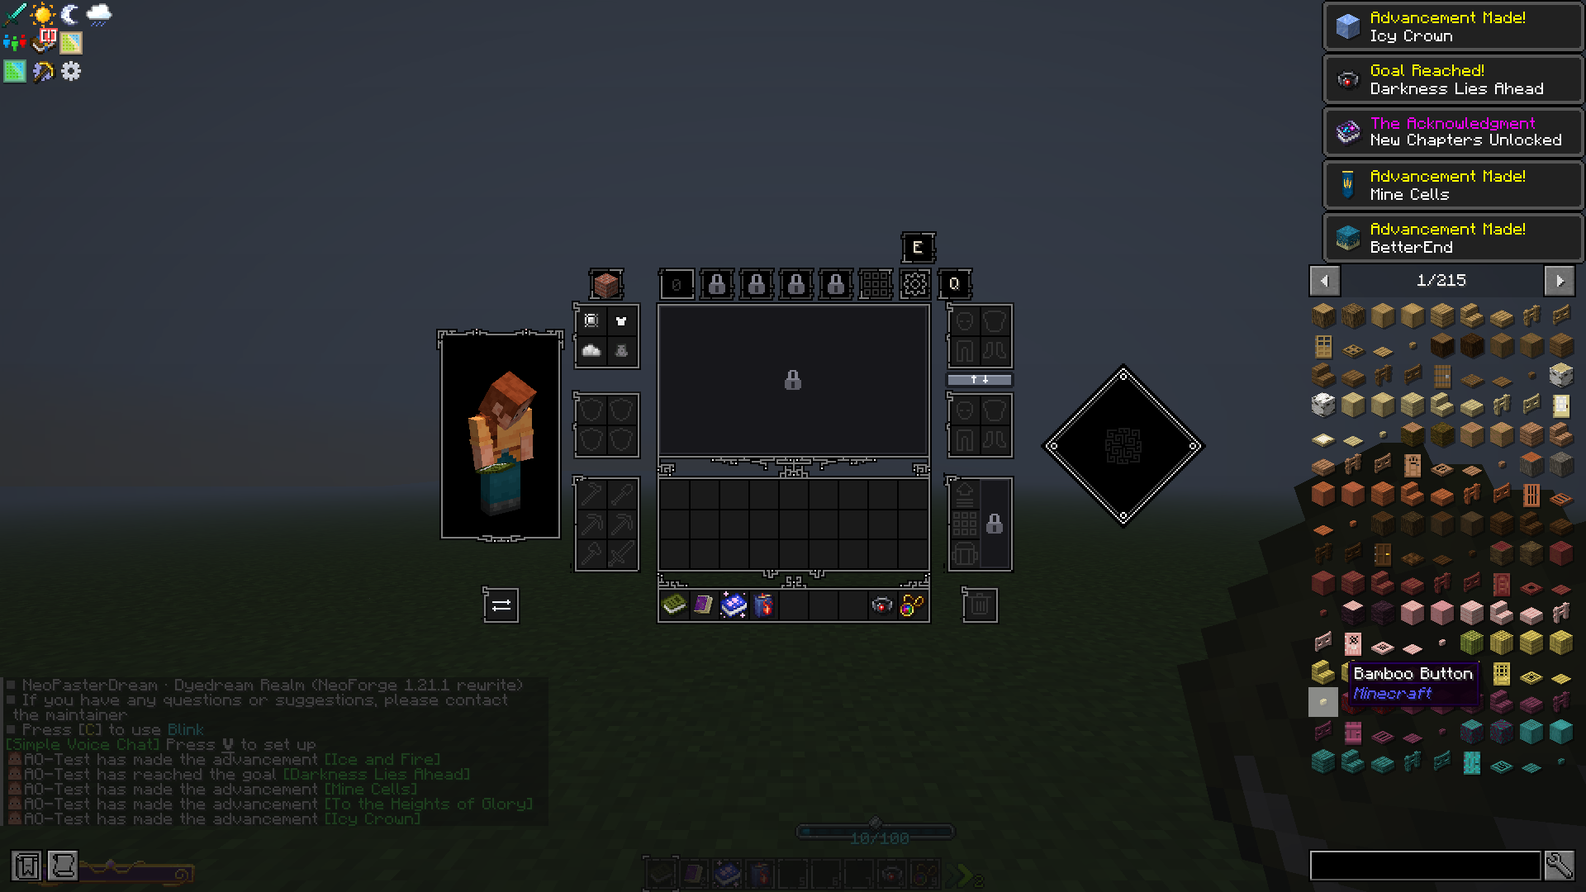
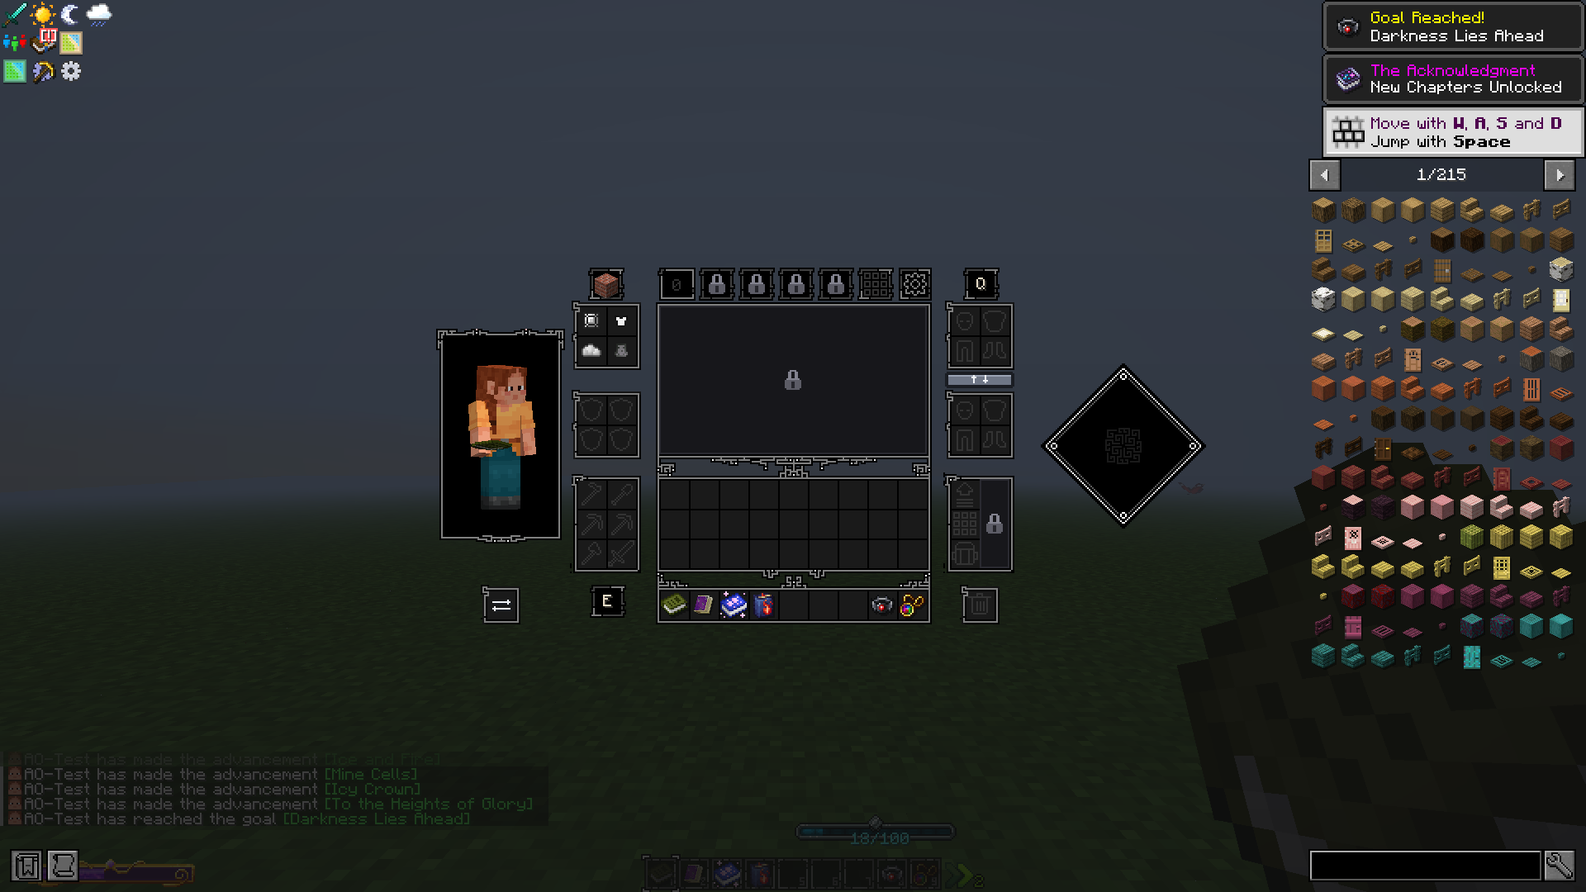
Place E below tools and Q above armor; verify native mouse clicks

diff --git a/tools/ring-probe/src/main/java/dev/ambientodyssey/logprobe/FullPackLogProbe.java b/tools/ring-probe/src/main/java/dev/ambientodyssey/logprobe/FullPackLogProbe.java
@@ -31,7 +31,7 @@ public final class FullPackLogProbe {
     opening=true; mc.options.onboardAccessibility=false;mc.options.renderDistance().set(2);mc.options.simulationDistance().set(2);
     LOG.info("AO_FULL_PACK_TITLE_PASS: creating disposable flat world for full-registry diagnosis");
     var settings=new LevelSettings("AO full-pack log probe",GameType.CREATIVE,false,Difficulty.PEACEFUL,true,new GameRules(),WorldDataConfiguration.DEFAULT);
-    mc.createWorldOpenFlows().createFreshLevel("ao-full-pack-log-probe",settings,new WorldOptions(48127,false,false),a->a.registryOrThrow(Registries.WORLD_PRESET).getHolderOrThrow(WorldPresets.FLAT).value().createWorldDimensions(),new TitleScreen());
+    mc.createWorldOpenFlows().createFreshLevel("ao-ring-position-"+System.currentTimeMillis(),settings,new WorldOptions(48127,false,false),a->a.registryOrThrow(Registries.WORLD_PRESET).getHolderOrThrow(WorldPresets.FLAT).value().createWorldDimensions(),new TitleScreen());
     return;
    }
    if(mc.player==null||mc.level==null||mc.getSingleplayerServer()==null||++ticks<100)return;
@@ -45,13 +45,22 @@ public final class FullPackLogProbe {
    }
    if(stage>=1&&stage<=3){
     check(tab().visible&&tab().active,"equipped ring must show tab");
-    check(tab().getY()+tab().getHeight()<=inventory.getGuiTop(),"tab must sit above native panel");
+    check(tab().getY()==inventory.getGuiTop()+192,"tab must sit below left tool panel");
+    check(tab().getX()==inventory.getGuiLeft()+92 || tab().getX()==inventory.getGuiLeft()+63,"tab must stay in requested left area");
+    for(var slot:inventory.getMenu().slots)if(slot.isActive())
+      check(!(tab().getX()<inventory.getGuiLeft()+slot.x+16&&tab().getX()+24>inventory.getGuiLeft()+slot.x&&tab().getY()<inventory.getGuiTop()+slot.y+16&&tab().getY()+20>inventory.getGuiTop()+slot.y),"active slot overlap");
+    var q=(net.minecraft.client.gui.components.AbstractButton)inventory.children().stream().filter(v->v.getClass().getName().endsWith("QuestlogBetterInventoryBridge$QuestlogTab")).findFirst().orElseThrow();
+    check(q.getX()==inventory.getGuiLeft()+318&&q.getY()==inventory.getGuiTop(),"Q must be above right armor");
+    click(mc,q);
+    check(mc.screen!=null&&mc.screen.getClass().getName().endsWith("QuestlogScreen"),"Q did not open Questlog");
+    mc.screen.keyPressed(256,0,0);check(mc.screen==inventory,"Q did not return to Better Inventory");
+    LOG.info("AO_QUESTLOG_POSITION_CLICK_PASS: scale={}, x={}, y={}",stage+1,q.getX(),q.getY());
     for(var child:inventory.children())if(child instanceof net.minecraft.client.gui.components.AbstractWidget w&&w!=tab()&&w.visible)
       check(!(tab().getX()<w.getX()+w.getWidth()&&tab().getX()+24>w.getX()&&tab().getY()<w.getY()+w.getHeight()&&tab().getY()+20>w.getY()),"widget overlap");
     try(var shot=net.minecraft.client.Screenshot.takeScreenshot(mc.getMainRenderTarget())){shot.writeToFile(mc.gameDirectory.toPath().resolve("ring-scale-"+(stage+1)+".png"));}
     LOG.info("AO_RING_LAYOUT_PASS: scale={}, x={}, y={}",stage+1,tab().getX(),tab().getY());
     if(stage<3){stage++;inventory=openInventory(mc,stage+1);ticks=0;return;}
-    check(inventory.mouseClicked(tab().getX()+12,tab().getY()+10,0),"native click not consumed");
+    click(mc,tab());
     stage=4;ticks=0;return;
    }
    if(stage==4){
@@ -67,6 +76,15 @@ public final class FullPackLogProbe {
    LOG.info("AO_FULL_PACK_WORLD_JOIN_PASS: full roster loaded; ring native layout/equip/click/unequip checks passed");
    mc.stop();
   }catch(Exception|LinkageError e){finished=true;LOG.error("AO_FULL_PACK_PROBE_FAIL",e);mc.stop();}
+ }
+ private static void click(Minecraft mc,net.minecraft.client.gui.components.AbstractButton button)throws Exception {
+    var move=net.minecraft.client.MouseHandler.class.getDeclaredMethod("onMove",long.class,double.class,double.class);
+    move.setAccessible(true);move.invoke(mc.mouseHandler,mc.getWindow().getWindow(),
+      (button.getX()+12d)*mc.getWindow().getScreenWidth()/mc.getWindow().getGuiScaledWidth(),
+      (button.getY()+10d)*mc.getWindow().getScreenHeight()/mc.getWindow().getGuiScaledHeight());
+    var press=net.minecraft.client.MouseHandler.class.getDeclaredMethod("onPress",long.class,int.class,int.class,int.class);
+    press.setAccessible(true);press.invoke(mc.mouseHandler,mc.getWindow().getWindow(),0,1,0);
+    press.invoke(mc.mouseHandler,mc.getWindow().getWindow(),0,0,0);
  }
  private static void check(boolean value,String message){if(!value)throw new IllegalStateException(message);}
  private net.minecraft.client.gui.components.AbstractButton tab(){return (net.minecraft.client.gui.components.AbstractButton)inventory.children().stream().filter(v->v.getClass().getName().endsWith("EnigmaticInventoryBridge$EnderTab")).findFirst().orElseThrow();}

diff --git a/tools/package_v0483_ring_test.py b/tools/package_v0483_ring_test.py
@@ -1,11 +1,11 @@
-"""Exact delta from the verified r8 import: optional ring bridge and approved mod removal."""
+"""Exact delta from the verified r8 import: ring bridge, requested Q placement and approved mod removal."""
 import argparse,hashlib,json,io,tomllib
 from pathlib import Path
 from zipfile import ZipFile
 from package_v048_ui_fix import archive
[1 lines of base64/hex data omitted]
 REMOVED={1023913,1657433}
-def build(base,jar,output):
+def build(base,jar,questlog_jar,output):
  assert hashlib.sha256(base.read_bytes()).hexdigest()==BASE_SHA
  with ZipFile(base) as z:
   assert z.testzip() is None
@@ -28,17 +28,26 @@ def build(base,jar,output):
   assert tomllib.loads(z.read('META-INF/neoforge.mods.toml').decode())['mods'][0]['modId']=='aoenigmaticbridge'
   assert not any('QA' in n or 'Probe' in n for n in z.namelist())
  full['overrides/mods/'+jar.name]=blob
- full['overrides/AO_TEST_NOTES/RING_INVENTORY_CHECKLIST.txt']=b"Use a NEW profile and throwaway world.\nWithout the equipped Seven Curses ring: no E tab.\nEquip it in Curios: E tab above Settings opens the original Ender Chest.\nCheck normal/hover appearance, scales 2/3/4, Q/Settings/Curios/backpacks.\nCheck carried items, save/reload, disabled ring-access config and multiplayer.\nSubtle Effects and its End Remastered patch removed; Fzzy Config retained.\nRetest the previously crashing mob interaction.\n"
+ old_q='overrides/mods/ao-questlog-betterinventory-0.1.5.jar'
+ assert old_q in full and questlog_jar.name=='ao-questlog-betterinventory-0.1.6.jar'
+ del full[old_q]
+ q_blob=questlog_jar.read_bytes()
+ with ZipFile(io.BytesIO(q_blob)) as z:
+  assert z.testzip() is None and not any('PlacementQA' in n for n in z.namelist())
+  q_meta=tomllib.loads(z.read('META-INF/neoforge.mods.toml').decode())['mods'][0]
+  assert q_meta['modId']=='aoquestlogbridge' and q_meta['version']=='0.1.6'
+ full['overrides/mods/'+questlog_jar.name]=q_blob
+ full['overrides/AO_TEST_NOTES/RING_INVENTORY_CHECKLIST.txt']=b"Use a NEW profile and throwaway world.\nWithout the equipped Seven Curses ring: no E tab.\nEquip it in Curios: E tab below the left tool slots opens the original Ender Chest.\nCheck normal/hover appearance, scales 2/3/4, Q above right armor opens Questlog and returns. Settings/Curios/backpacks.\nCheck carried items, save/reload, disabled ring-access config and multiplayer.\nSubtle Effects and its End Remastered patch removed; Fzzy Config retained.\nRetest the previously crashing mob interaction.\n"
  for n,b in original.items():
-  if n!='manifest.json' and n not in removed_paths: assert full[n]==b,n
+  if n not in {'manifest.json',old_q} and n not in removed_paths: assert full[n]==b,n
  after={f['projectID']:f['fileID'] for f in manifest['files']}
  assert after=={k:v for k,v in before.items() if k not in REMOVED}
  assert not any('subtle' in n.lower() and n.startswith('overrides/mods/') for n in full)
  sha=archive(output,full)
- report={'base_sha256':BASE_SHA,'output_sha256':sha,'bridge_sha256':hashlib.sha256(blob).hexdigest(),'removed_projects':sorted(REMOVED),'curseforge_pins':329,'remaining_pins_and_original_payload_unchanged':True,'removed_config_paths':removed_paths}
+ report={'base_sha256':BASE_SHA,'output_sha256':sha,'bridge_sha256':hashlib.sha256(blob).hexdigest(),'questlog_bridge_sha256':hashlib.sha256(q_blob).hexdigest(),'removed_projects':sorted(REMOVED),'curseforge_pins':329,'remaining_pins_and_unrelated_payload_unchanged':True,'removed_config_paths':removed_paths}
  output.with_suffix('.inputs.json').write_text(json.dumps(report,indent=2)+'\n',encoding='utf-8')
  print(json.dumps(report,indent=2))
 if __name__=='__main__':
  p=argparse.ArgumentParser(description=__doc__)
- for n in ['base','jar','output']: p.add_argument('--'+n,type=Path,required=True)
- a=p.parse_args();build(a.base,a.jar,a.output)
+ for n in ['base','jar','questlog-jar','output']: p.add_argument('--'+n,type=Path,required=True)
+ a=p.parse_args();build(a.base,a.jar,a.questlog_jar,a.output)

diff --git a/addons/ao-enigmatic-betterinventory/src/main/java/dev/ambientodyssey/enigmaticbridge/EnigmaticInventoryBridge.java b/addons/ao-enigmatic-betterinventory/src/main/java/dev/ambientodyssey/enigmaticbridge/EnigmaticInventoryBridge.java
@@ -36,6 +36,7 @@ public final class EnigmaticInventoryBridge {
     public EnigmaticInventoryBridge(IEventBus bus) {
         NeoForge.EVENT_BUS.addListener(EnigmaticInventoryBridge::init);
         NeoForge.EVENT_BUS.addListener(EnigmaticInventoryBridge::beforeRender);
+        NeoForge.EVENT_BUS.addListener(EnigmaticInventoryBridge::beforeClick);
     }
     private static boolean target(Screen screen) {
         return screen.getClass().getName().equals("dev.fallingcloud.betterinventory.client.screen.BetterInventoryScreen")
@@ -75,6 +76,17 @@ public final class EnigmaticInventoryBridge {
         if (!target(event.getScreen())) return;
         for (var child:event.getScreen().children()) if(child instanceof EnderTab tab) tab.refresh();
     }
+    private static void beforeClick(ScreenEvent.MouseButtonPressed.Pre event) {
+        if (!target(event.getScreen()) || event.getButton()!=0) return;
+        for (var child:event.getScreen().children()) if (child instanceof EnderTab tab) {
+            tab.refresh();
+            // BI's container click handling can consume this lower slot region before widgets.
+            // Only route our own visible hitbox; all native controls retain their input path.
+            if (tab.mouseClicked(event.getMouseX(),event.getMouseY(),event.getButton())) {
+                event.setCanceled(true); return;
+            }
+        }
+    }
     public static final class EnderTab extends AbstractButton {
         private final AbstractContainerScreen<?> parent;
         private final Button original;
@@ -86,16 +98,19 @@ public final class EnigmaticInventoryBridge {
         private void refresh() {
             active=visible=allowed();
             if (!visible) return;
-            // Above the settings gear, outside the native panel and Q tab at left+302/top.
+            // User-selected space below the left tool panel; preserve any active toolbox slot.
             int left=parent.getGuiLeft(), top=parent.getGuiTop();
-            int[][] candidates={{left+280,top-22},{left+254,top-22},
-                {left+280,top+parent.getYSize()+2},{left-26,top}};
+            int[][] candidates={{left+92,top+192},{left+63,top+192},
+                {left+280,top-22},{left-26,top}};
             for (int[] p:candidates) {
                 if(p[0]<2 || p[1]<2 || p[0]+24>parent.width-2 || p[1]+20>parent.height-2) continue;
                 boolean overlaps=false;
                 for (var child:parent.children()) if(child instanceof AbstractWidget w && w!=this && w.visible
                     && p[0]<w.getX()+w.getWidth() && p[0]+24>w.getX()
                     && p[1]<w.getY()+w.getHeight() && p[1]+20>w.getY()) { overlaps=true; break; }
+                for (var slot:parent.getMenu().slots) if (slot.isActive()
+                    && p[0]<left+slot.x+16 && p[0]+24>left+slot.x
+                    && p[1]<top+slot.y+16 && p[1]+20>top+slot.y) { overlaps=true; break; }
                 if (!overlaps) { setPosition(p[0],p[1]); return; }
             }
             active=visible=false; // Never cover a native control when no safe position exists.

diff --git a/addons/ao-questlog-betterinventory/src/main/java/dev/ambientodyssey/questlogbridge/QuestlogBetterInventoryBridge.java b/addons/ao-questlog-betterinventory/src/main/java/dev/ambientodyssey/questlogbridge/QuestlogBetterInventoryBridge.java
@@ -54,7 +54,7 @@ public final class QuestlogBetterInventoryBridge {
     // Verified against the installed Better Inventory 1.3.2 JAR:
     // backpack tabs = left+134,158,182,206,230; crafting=254;
     // settings gear = left+280, width 20 (not the tab's width 24).
-    // User-preferred Q tab: two pixels RIGHT of Better Inventory's gear.
+    // User-preferred Q tab: centered ABOVE the right armor panel (RIGHT_A_X=308, width=44).
     // Fall back to the previously verified above-gear slot on narrow screens.
     private static final int SETTINGS_X = 280;
     private static final int SETTINGS_WIDTH = 20;
@@ -82,6 +82,10 @@ public final class QuestlogBetterInventoryBridge {
         }
         int left = inventory.getGuiLeft();
         int top = inventory.getGuiTop();
+        int aboveArmor = left + 318;
+        if (aboveArmor >= 2 && aboveArmor + TAB_WIDTH <= screen.width - 2 && top >= 2) {
+            return new Anchor(aboveArmor, top);
+        }
         int rightOfSettings = left + SETTINGS_X + SETTINGS_WIDTH + TAB_MARGIN;
         // Align with native settings on the same row without covering it.
         if (rightOfSettings + TAB_WIDTH <= screen.width - 2) {
@@ -163,7 +167,7 @@ public final class QuestlogBetterInventoryBridge {
 
         event.addListener(new QuestlogTab(screen));
         lastBadgeTick = Long.MIN_VALUE;
-        LOG.info("AO Questlog bridge 0.1.5: settings-right primary, safe fallbacks at {},{} (gui left={}, top={})",
+        LOG.info("AO Questlog bridge 0.1.6: armor-top primary, safe fallbacks at {},{} (gui left={}, top={})",
                 buttonX(screen), buttonY(screen),
                 ((AbstractContainerScreen<?>) screen).getGuiLeft(),
                 ((AbstractContainerScreen<?>) screen).getGuiTop());

diff --git a/addons/ao-questlog-betterinventory/src/main/java/dev/ambientodyssey/questlogbridge/QuestlogPlacementQA.java b/addons/ao-questlog-betterinventory/src/main/java/dev/ambientodyssey/questlogbridge/QuestlogPlacementQA.java
@@ -83,9 +83,9 @@ public final class QuestlogPlacementQA {
             var layout = Class.forName("dev.fallingcloud.betterinventory.BetterInventoryLayout");
             int settingsX = layout.getField("SETTINGS_X").getInt(null);
             int settingsWidth = layout.getField("SETTINGS_SIZE").getInt(null);
-            int expectedX = inventory.getGuiLeft() + settingsX + settingsWidth + 2;
+            int expectedX = inventory.getGuiLeft() + layout.getField("RIGHT_A_X").getInt(null) + 10;
             if (q.getX() != expectedX || q.getY() != inventory.getGuiTop())
-                throw new IllegalStateException("Q is not immediately right of the actual gear: " + q.getX() + "," + q.getY());
+                throw new IllegalStateException("Q is not centered above the right armor panel: " + q.getX() + "," + q.getY());
             if (q.getX() + q.getWidth() > inventory.width || q.getY() < 0)
                 throw new IllegalStateException("Q is off-screen");
             var path = mc.gameDirectory.toPath().resolve("questlog-scale-" + scale + ".png");

diff --git a/docs/testing/V0483_RING_INVENTORY_2026-10-12.md b/docs/testing/V0483_RING_INVENTORY_2026-10-12.md
@@ -4,7 +4,7 @@ Base: latest active GitHub branch `content/v0482-r8-full-pack-20261012`, commit 
 
 ## Changes
 
-Optional client-only `ao-enigmatic-betterinventory` 0.1.0 adds a native-style 24x20 E tab above Settings. Uses Better Inventory 1.3.2's installed tab atlas, selected row on hover/focus, tooltip and narration; leaves Questlog, Curios, backpacks and native inventory buttons intact. Placement checks bounds and visible widgets, then safe fallback positions. No source mod JAR is modified.
+Optional client-only `ao-enigmatic-betterinventory` 0.1.0 adds a native-style 24x20 E tab below the left tool slots. Uses Better Inventory 1.3.2's installed tab atlas, selected row on hover/focus, tooltip and narration; preserves Curios, backpacks and native inventory buttons. Questlog bridge 0.1.6 moves Q to `guiLeft+318, guiTop`, centered above the right armor panel, matching the user's second annotated screenshot. Placement checks bounds, visible widgets and active slots, then safe fallback positions. The user-selected lower-left anchor is `guiLeft+92, guiTop+192`, centered beneath the tool panel. If Slate Building activates its native toolbox slot in that space, the tab moves to `guiLeft+63` on the same row rather than covering it. A targeted mouse-pre handler routes only this tab hitbox before native container handling; other controls retain their original input path. No source mod JAR is modified.
 
 Exact installed Enigmatic Legacy+ 1.1.2 bytecode was inspected: `ClientSetupHandler.onInventoryGuiInit` adds its buttons only to vanilla inventory, creative inventory and `ICuriosScreen`; Better Inventory matches none. `EnderChestInventoryButton.getInstance` handles carried stack and sends `EnderRingKeyPacket`, whose server handler opens the player's original Ender Chest. This native action is reused.
 
@@ -15,16 +15,16 @@ Removed CF Subtle Effects `1023913:7768631` and exclusive SubtleEndRem compatibi
 ## Validation
 
 - Addon and isolated test probe compile with Java 21 / NeoForge 21.1.252; Gradle build PASS.
-- Exact-base ZIP CRC, unique manifest pins, removal, bridge metadata/hash and byte-preservation assertions PASS: **329 CF pins**, all remaining pins and original files unchanged. No QA probe bundled. See [input hashes](V0483_RING_BUILD_INPUTS_2026-10-12.json).
+- Exact-base ZIP CRC, unique manifest pins, removal, bridge metadata/hash and byte-preservation assertions PASS: **329 CF pins**, all remaining pins and unrelated original files unchanged. No QA probe bundled. See [input hashes](V0483_RING_BUILD_INPUTS_2026-10-12.json).
 - Static quest campaign (52 quests, 13 chapters), FTB Manual (32 pages, 3 chapters), source Questlog/f-g and archive Trek/DnT checks PASS. Source legacy roster remains 331 after this removal; it differs from the consolidated 329-pin import in previously documented historical roster entries. The delta builder is authoritative for this experiment; no unrelated roster migration.
-- Actual production full-roster Minecraft client: fresh flat integrated world, initial hidden state, actual server Curios ring equip/client sync, layout/bounds/no visible widget overlaps at GUI scales 2/3/4, native mouse click, original packet/server Ender Chest opening, and server unequip/client button disappearance **PASS**. Clean save/exit code 0. Test runs only in `build/ring-full-pack-probe`; live profiles untouched.
+- Actual production full-roster Minecraft client: fresh flat integrated world, initial hidden state, actual server Curios ring equip/client sync, layout/bounds/no visible widget overlaps at GUI scales 2/3/4, native MouseHandler movement/press/release callbacks for both Q/return and E, original packet/server Ender Chest opening, and server unequip/client button disappearance **PASS**. Clean save/exit code 0. Test runs only in `build/ring-full-pack-probe`; live profiles untouched.
 - Screenshots inspected for native-style appearance. Evidence: [native markers](v0483-ring-evidence/NATIVE_RESULTS.txt), [scale 2](v0483-ring-evidence/ring-scale-2.png), [scale 3](v0483-ring-evidence/ring-scale-3.png), [scale 4](v0483-ring-evidence/ring-scale-4.png). Hover sprite implementation uses the same native atlas as Q; interactive hover, focus and disabled-access config still require manual verification.
 - Existing unrelated r8 Cornelia recipe and inherited resource/loot diagnostics remain recorded; supplied Apotheotic JAR unchanged. This is not a comprehensive gameplay certification.
 
 ## Build / manual checks
 
 ```
-python tools/package_v0483_ring_test.py --base build/Ambient-Odyssey-v0.4.8.2-R8-FULL-PACK-TEST.zip --jar addons/ao-enigmatic-betterinventory/build/libs/ao-enigmatic-betterinventory-0.1.0.jar --output build/Ambient-Odyssey-v0.4.8.3-RING-INVENTORY-TEST.zip
+python tools/package_v0483_ring_test.py --base build/Ambient-Odyssey-v0.4.8.2-R8-FULL-PACK-TEST.zip --jar addons/ao-enigmatic-betterinventory/build/libs/ao-enigmatic-betterinventory-0.1.0.jar --questlog-jar addons/ao-questlog-betterinventory/build/libs/ao-questlog-betterinventory-0.1.6.jar --output build/Ambient-Odyssey-v0.4.8.3-RING-INVENTORY-TEST.zip
 ```
 
 Import as a **new CurseForge profile**, use a throwaway world. Check E tab normal/hover/focus, equipped vs held/unequipped ring, ring-access config disabled, carried items/click, save/reload and multiplayer. Confirm Q, Settings, Curios/backpack integrations still work. Retest the previously crashing mob interaction without Subtle Effects. Broader game tests and dedicated server are not verified. Checklist is shipped in `AO_TEST_NOTES/RING_INVENTORY_CHECKLIST.txt`.

diff --git a/addons/ao-enigmatic-betterinventory/README.md b/addons/ao-enigmatic-betterinventory/README.md
@@ -2,7 +2,7 @@
 
 Client-only optional addon for Minecraft 1.21.1, NeoForge 21.1.252, Enigmatic Legacy+ 1.1.2 and Better Inventory 1.3.2. No changes to either original JAR, inventories or packets.
 
-The 24x20 E tab uses Better Inventory's installed atlas and native normal/hover rows. Its preferred position is above the settings gear. Bounds and existing visible widgets are checked before placement, with safe fallbacks. Questlog's Q tab stays in its existing position.
+The 24x20 E tab uses Better Inventory's installed atlas and native normal/hover rows. Its preferred position is below the left tool slots. Bounds, existing visible widgets and active inventory slots are checked before placement, with safe fallbacks. Questlog's Q tab is centered above the right armor panel, as requested. A mouse-pre event routes only the visible ring tab hitbox before the native container can consume that lower area.
 
 Visibility requires the actual `CURSED_RING` Curio and `CursedRing.enableEnderRing`. A stored `SevenCursesBearing` flag or the separate Ring of Ender does not show this Seven Curses tab. The original mod's other screens are unchanged. The button delegates to the native `EnderChestInventoryButton.getInstance(...).onPress()`, including carried-stack handling and server validation. Equip/config state is checked before rendering and clicking. Reflection failures disable the integration and log one error.
 

diff --git a/docs/status/CURRENT_STATE.md b/docs/status/CURRENT_STATE.md
@@ -55,4 +55,4 @@ v048.2 replaces only the Apotheotic prototype with supplied r8 SHA 05639f00... a
 
 ## 12 October - current v0483 test candidate
 
-v0483 adds Seven Curses Ender Chest access above Better Inventory Settings, gated by equipped ring and native config. Actual full-roster client layout/equip/original chest packet/unequip checks PASS at scales 2/3/4. Subtle Effects and its exclusive End Remastered patch removed after user crash testing; 329 CF pins. Existing r8, Q, trims, Whaleborne and tooltip/startup fixes preserved. Manual edge cases and crash-mob regression remain. See [checks](../testing/V0483_RING_INVENTORY_2026-10-12.md).
+v0483 adds Seven Curses Ender Chest access below Better Inventory tool slots, gated by equipped ring and native config. Actual full-roster client layout/equip/original chest packet/unequip checks PASS at scales 2/3/4. Subtle Effects and its exclusive End Remastered patch removed after user crash testing; 329 CF pins. Q now sits above the right armor panel as requested; existing r8, trims, Whaleborne and tooltip/startup fixes preserved. Manual edge cases and crash-mob regression remain. See [checks](../testing/V0483_RING_INVENTORY_2026-10-12.md).

diff --git a/docs/status/AGENT_WORKFLOW.md b/docs/status/AGENT_WORKFLOW.md
@@ -23,3 +23,5 @@ Use the hash-pinned `tools/package_v048_consolidated_test.py` procedure for the 
 ## Current v0483 candidate
 
 Use `tools/package_v0483_ring_test.py` on the exact r8 full import. Never reintroduce Subtle Effects (1023913) or its exclusive patch (1657433). Shared Fzzy Config stays. Ring compatibility source is `addons/ao-enigmatic-betterinventory`; isolated native QA in `tools/ring-probe` is never shipped. See [v0483 validation](../testing/V0483_RING_INVENTORY_2026-10-12.md).
+
+The latest annotated UI request moves E to the lower-left tool area and Q above right armor. Build with `--questlog-jar addons/ao-questlog-betterinventory/build/libs/ao-questlog-betterinventory-0.1.6.jar`. Native QA must deliver actual MouseHandler movement/press/release for both buttons.

diff --git a/TODO.md b/TODO.md
@@ -2138,3 +2138,5 @@ Problems still open: 41 unavailable existing binaries, eight unavailable approve
 - [x] Remove Subtle Effects and its exclusive End Remastered patch; keep shared Fzzy Config.
 - [x] Build experimental 329-pin full import; preserve r8 and existing integrations.
 - [ ] Manual hover/focus, access config, carried items, reload/multiplayer and crash-mob regression. See docs/testing/V0483_RING_INVENTORY_2026-10-12.md.
+
+- [x] User-selected E below left tool slots; Q above right armor panel (bridge 0.1.6). Targeted E mouse-pre routing fixes lower-area click interception.
